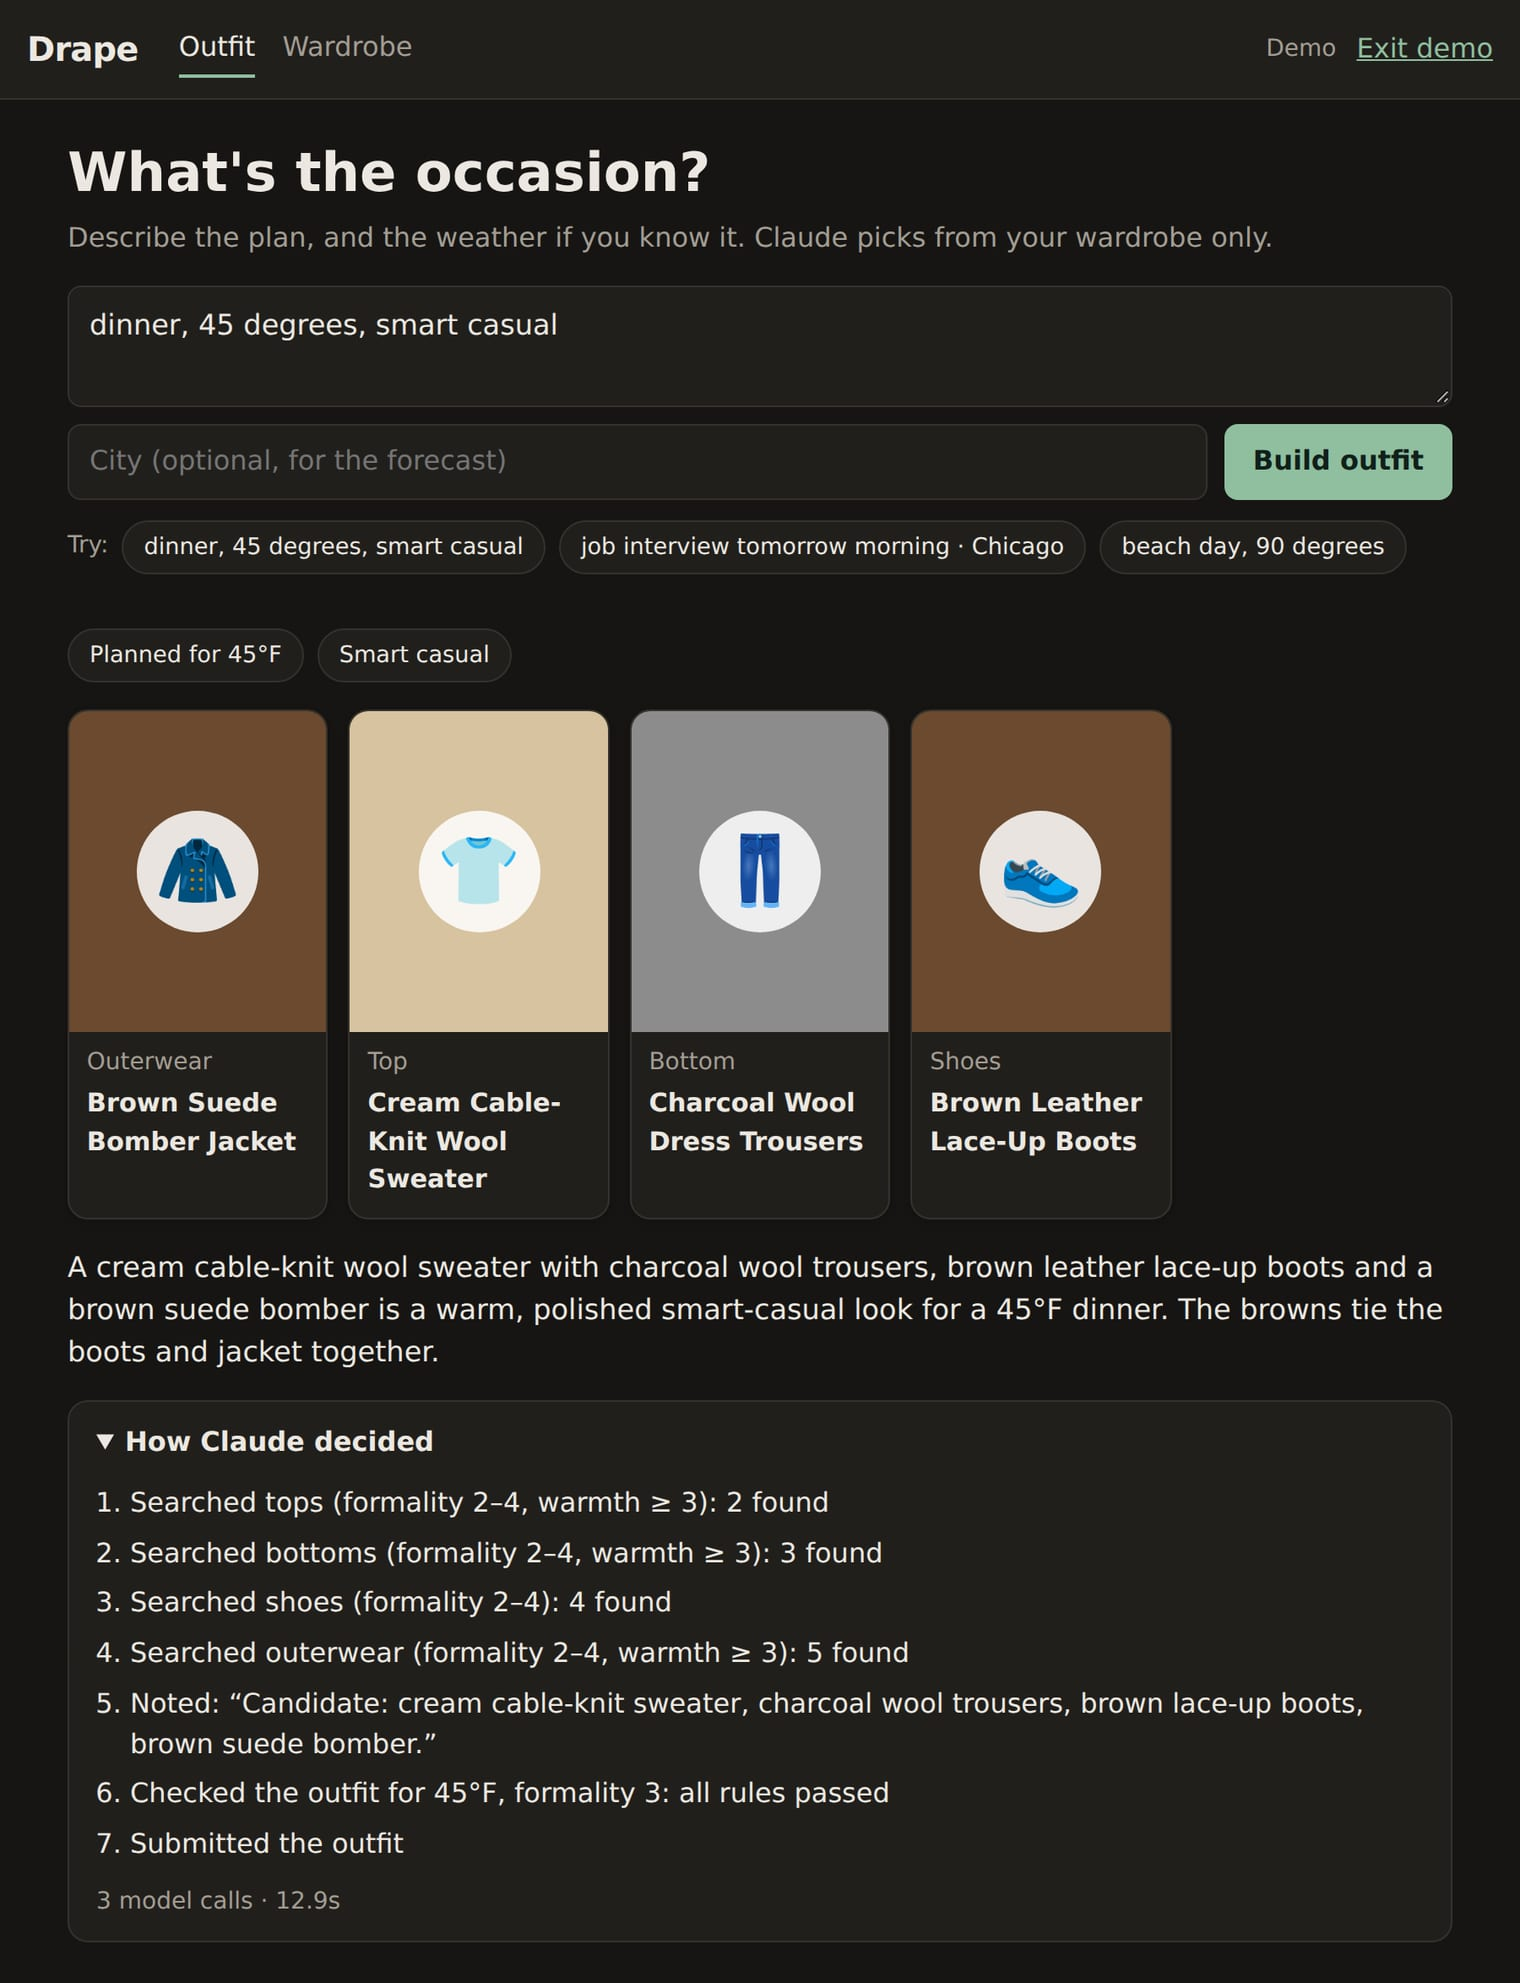
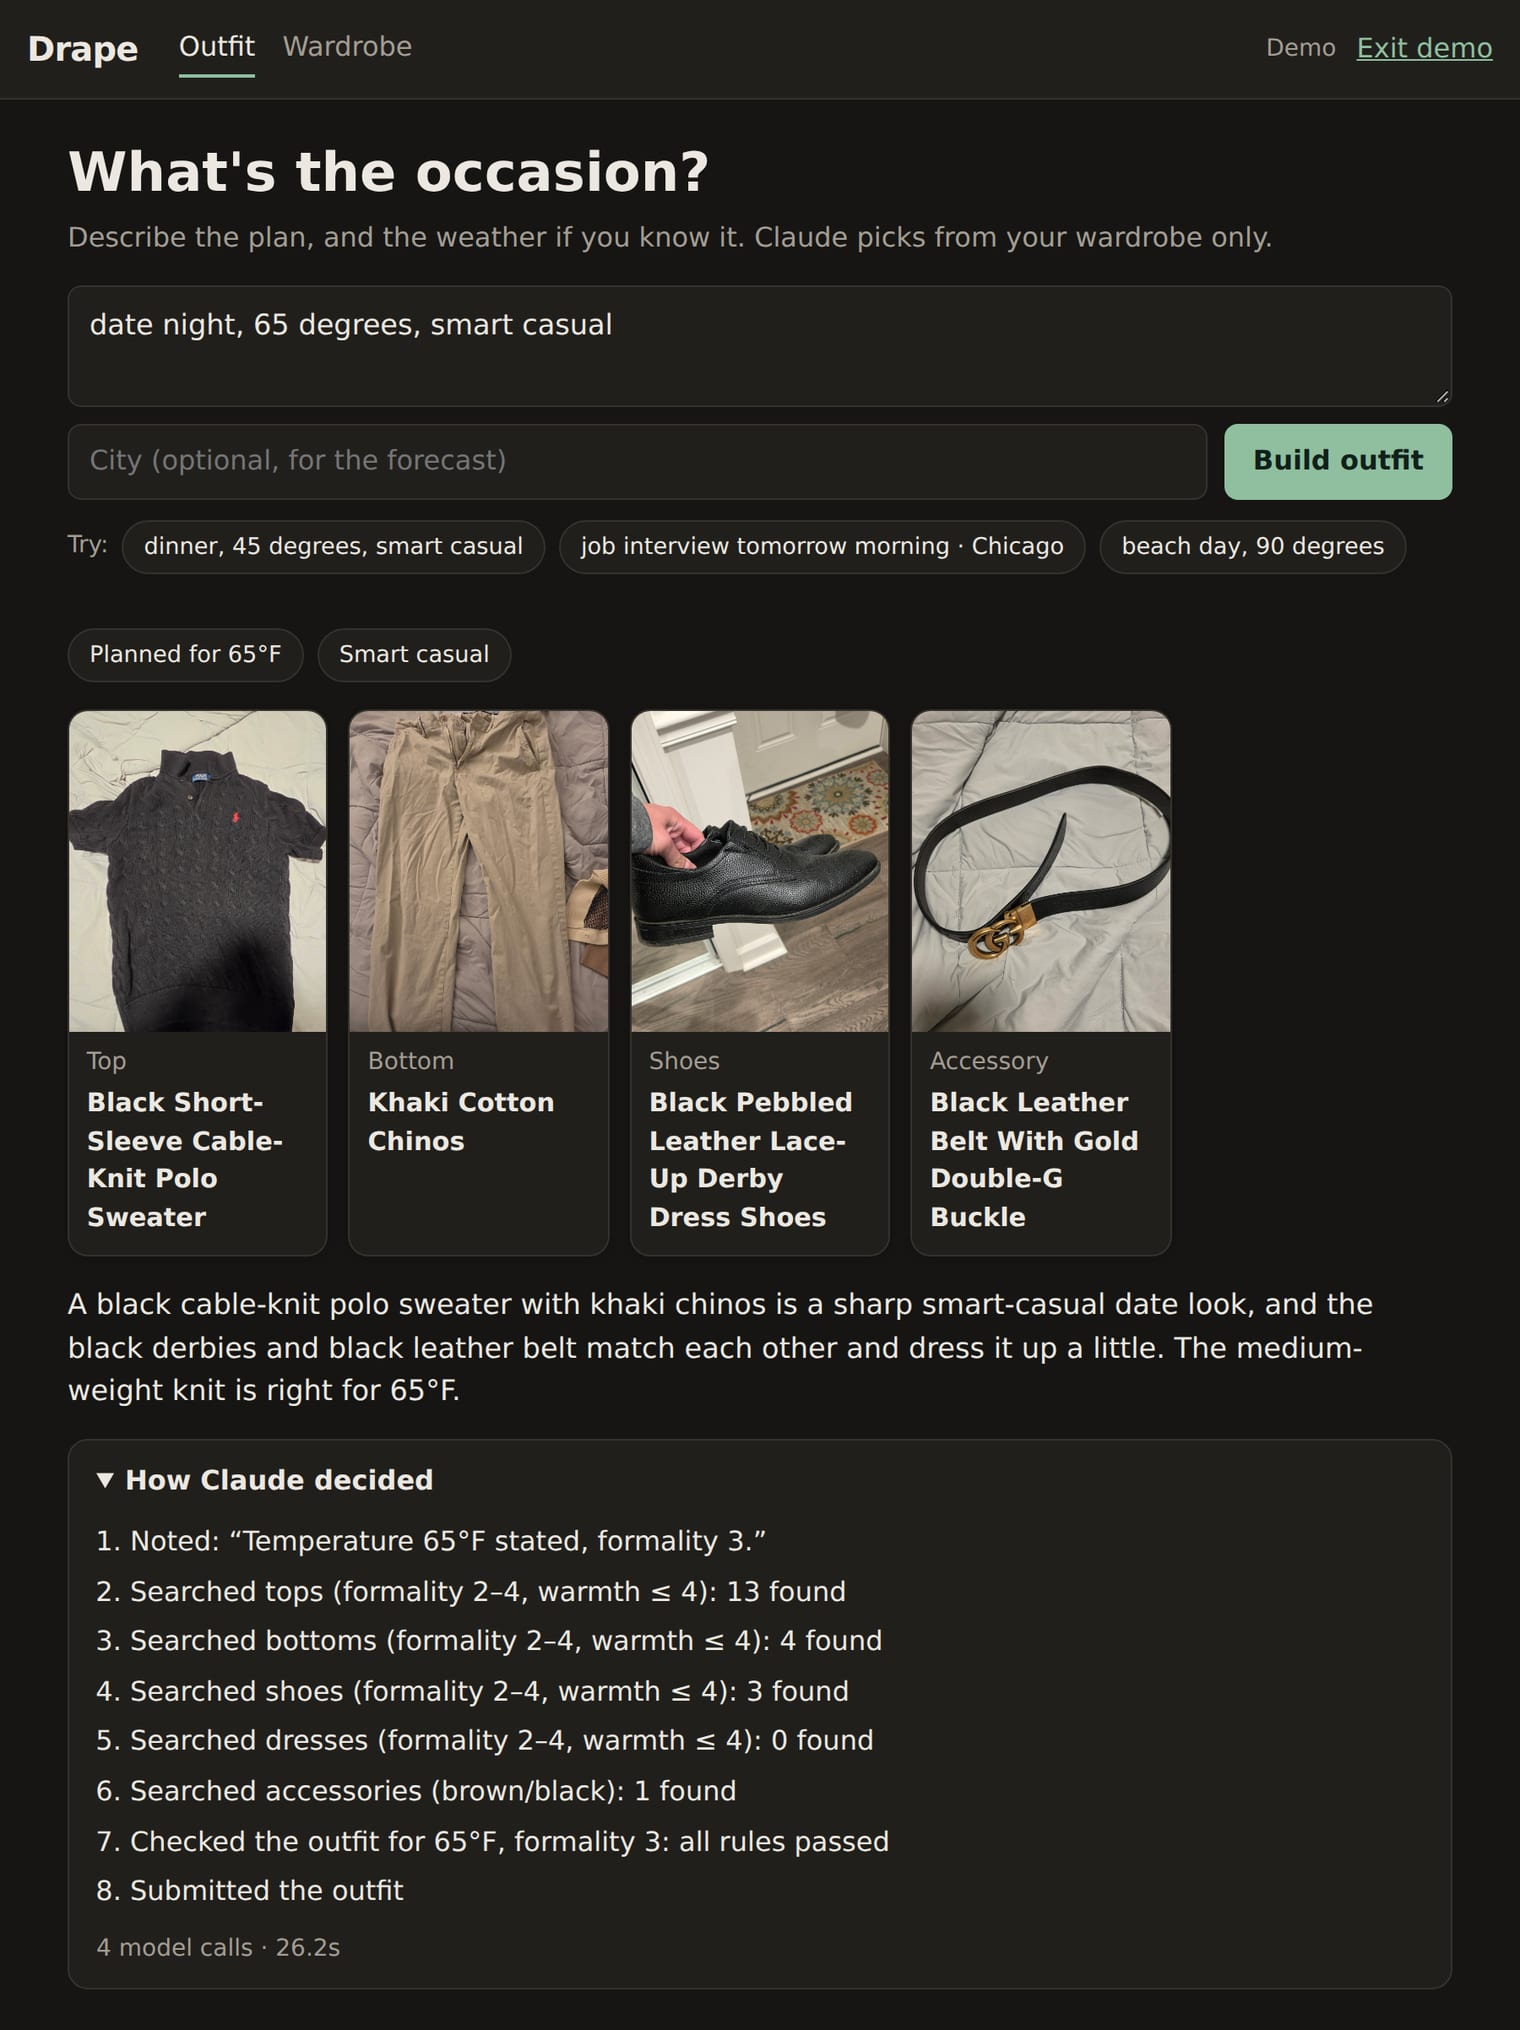
Use a real-wardrobe screenshot for Drape

diff --git a/index.html b/index.html
@@ -331,7 +331,7 @@
   <section>
     <p class="eyebrow">~/projects/drape</p>
     <div class="featured">
-      <img src="assets/drape-outfit.jpg" alt="Drape building a smart-casual outfit for a 45°F dinner from the user's wardrobe, with a step-by-step list of how the AI agent decided">
+      <img src="assets/drape-outfit.jpg" alt="Drape building a smart-casual date-night outfit for 65°F from photos of my own clothes, with a step-by-step list of how the AI agent decided">
       <div class="featured-body">
         <h3>Drape</h3>
         <p class="sub">An AI agent that builds outfits from the clothes you actually own</p>
